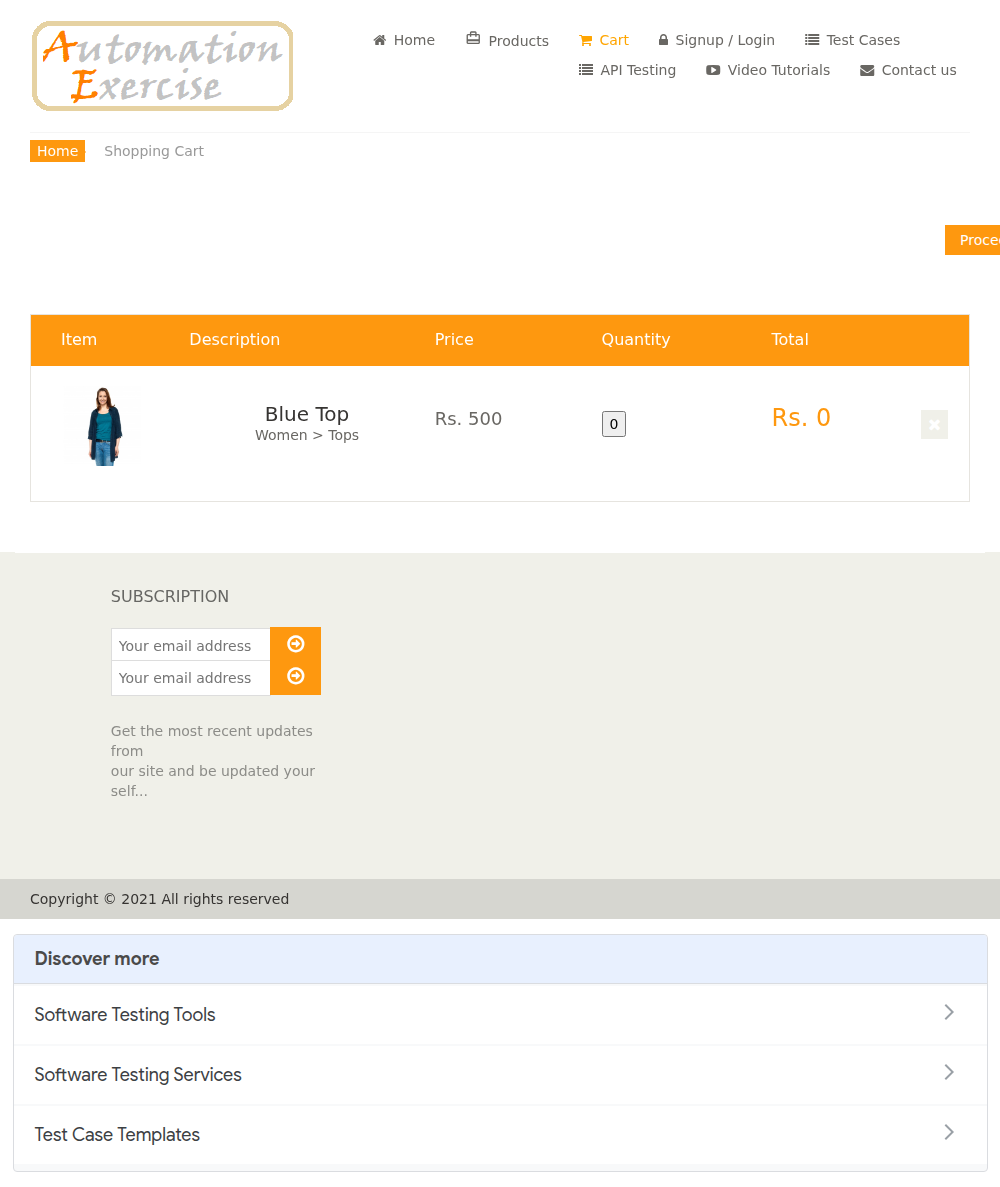
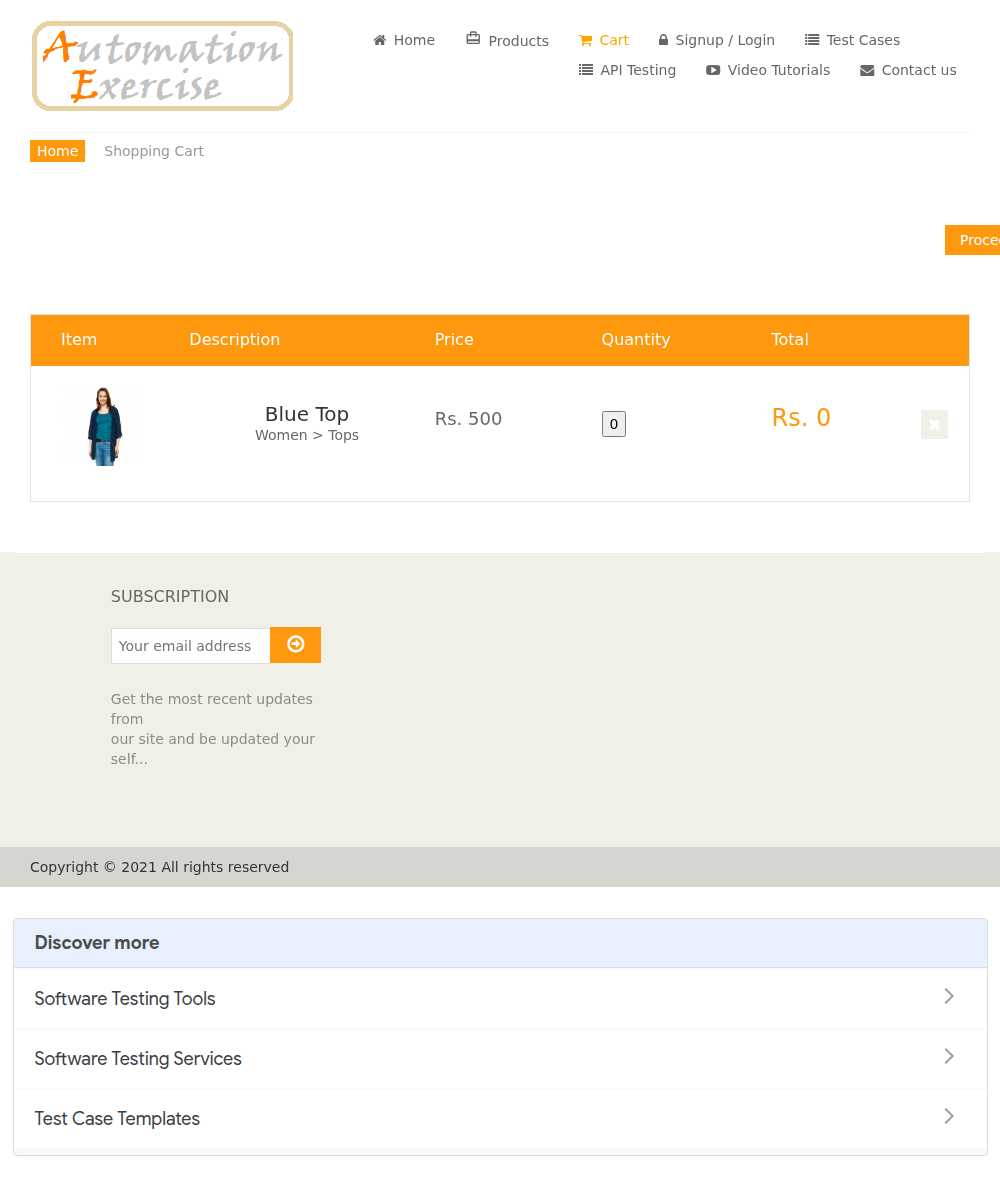
refactor: centraliza conversao monetaria e aprimora expected failure

Changed region(s): [[0.0, 0.6858, 1.0, 0.9663], [0.093, 0.5611, 0.341, 0.6546]]

diff --git a/cypress/e2e/carrinho-known-bugs.cy.js b/cypress/e2e/carrinho-known-bugs.cy.js
@@ -1,69 +1,78 @@
+
 import ProdutosPage from "../pages/ProdutosPage";
 import DetalhesProdutoPage from "../pages/DetalhesProdutoPage";
 import CarrinhoPage from "../pages/CarrinhoPage";
 
 describe("Carrinho - Defeitos conhecidos", () => {
-
   let produto;
 
   beforeEach(() => {
-
     cy.request("GET", "/api/productsList")
       .then((response) => {
+        expect(response.status, "Status HTTP").to.eq(200);
 
         const body = typeof response.body === "string"
           ? JSON.parse(response.body)
           : response.body;
 
-        expect(response.status).to.eq(200);
         expect(body.responseCode).to.eq(200);
         expect(body.products).to.be.an("array").and.not.be.empty;
 
         produto = body.products[0];
-
       });
-
   });
 
-        it("[XFAIL][BUG-001] nao deve permitir produto com quantidade zero no carrinho", () => {
+  it("[XFAIL][BUG-001] nao deve permitir produto com quantidade zero no carrinho", () => {
+    // 1. Acessar produto
+    ProdutosPage.acessar();
+    ProdutosPage.visualizarProduto(produto.id);
 
-        ProdutosPage.acessar();
+    // 2. Informar quantidade invalida
+    DetalhesProdutoPage.alterarQuantidade(0);
+    DetalhesProdutoPage.adicionarAoCarrinho();
+    DetalhesProdutoPage.visualizarCarrinho();
 
-        ProdutosPage.visualizarProduto(produto.id);
+    // 3. Confirmar carregamento do carrinho
+    cy.url().should("include", "/view_cart");
 
-        DetalhesProdutoPage.alterarQuantidade(0);
+    cy.get("#cart_items").should("be.visible");
 
-        DetalhesProdutoPage.adicionarAoCarrinho();
+    // 4. Identificar o comportamento apresentado
+    cy.get("#cart_items").should(($carrinho) => {
+      const produtoNoCarrinho = $carrinho.find(
+        `#product-${produto.id}`
+      );
 
-        DetalhesProdutoPage.visualizarCarrinho();
+      const carrinhoVazio = $carrinho.find(
+        "#empty_cart:visible"
+      );
 
-        cy.url().should("include", "/view_cart");
+      expect(
+        produtoNoCarrinho.length > 0 ||
+        carrinhoVazio.length > 0,
+        "Estado reconhecido do carrinho"
+      ).to.eq(true);
+    }).then(($carrinho) => {
+      const produtoNoCarrinho = $carrinho.find(
+        `#product-${produto.id}`
+      );
 
-        cy.get("body").then(($body) => {
+      if (produtoNoCarrinho.length === 0) {
+        throw new Error(
+          "[XPASS][BUG-001] Defeito possivelmente corrigido. Revisar Expected Failure."
+        );
+      }
 
-            const produtoNoCarrinho = $body.find(
-            `#product-${produto.id}`
-            );
+      // 5. Confirmar exclusivamente o defeito conhecido
+      CarrinhoPage.obterQuantidade(produto.id)
+        .should("have.text", "0");
 
-            if (produtoNoCarrinho.length === 0) {
-            throw new Error(
-                "[XPASS][BUG-001] Defeito possivelmente corrigido. Revisar Expected Failure."
-            );
-            }
+      CarrinhoPage.obterSubtotal(produto.id)
+        .should("have.text", "Rs. 0");
 
-            CarrinhoPage.obterQuantidade(produto.id)
-            .should("have.text", "0");
+      cy.log("[XFAIL][BUG-001] Defeito conhecido reproduzido");
 
-            CarrinhoPage.obterSubtotal(produto.id)
-            .should("have.text", "Rs. 0");
-
-            cy.log("[XFAIL][BUG-001] Defeito conhecido reproduzido");
-
-            cy.screenshot("BUG-001-expected-failure");
-
-        });
-
-        });
-
+      cy.screenshot("BUG-001-expected-failure");
+    });
   });
-
+});

diff --git a/cypress/pages/CheckoutPage.js b/cypress/pages/CheckoutPage.js
@@ -1,3 +1,4 @@
+import { converterPreco } from "../utils/moeda";
 
 class CheckoutPage {
   prosseguirParaCheckout() {
@@ -32,9 +33,7 @@ class CheckoutPage {
   }
 
   validarProduto(produto, quantidade) {
-    const precoUnitario = Number(
-      produto.price.replace("Rs.", "").trim()
-    );
+    const precoUnitario = converterPreco(produto.price);
 
     const subtotalEsperado = precoUnitario * quantidade;
 
@@ -51,9 +50,7 @@ class CheckoutPage {
           .should("contain.text", String(quantidade));
 
         cy.get(".cart_total_price").should(($subtotal) => {
-          const subtotalObtido = Number(
-            $subtotal.text().replace("Rs.", "").trim()
-          );
+          const subtotalObtido = converterPreco($subtotal.text());
 
           expect(subtotalObtido).to.eq(subtotalEsperado);
         });
@@ -65,9 +62,7 @@ class CheckoutPage {
       .parent()
       .find(".cart_total_price")
       .should(($total) => {
-        const totalObtido = Number(
-          $total.text().replace("Rs.", "").trim()
-        );
+        const totalObtido = converterPreco($total.text());
 
         expect(totalObtido, "Total da compra")
           .to.eq(totalEsperado);

diff --git a/cypress/e2e/carrinho.cy.js b/cypress/e2e/carrinho.cy.js
@@ -1,6 +1,7 @@
 import ProdutosPage from "../pages/ProdutosPage";
 import CarrinhoPage from "../pages/CarrinhoPage";
 import DetalhesProdutoPage from "../pages/DetalhesProdutoPage";
+import { converterPreco } from "../utils/moeda";
 
 describe("Carrinho de compras - Visitante", () => {
 
@@ -67,9 +68,7 @@ quantidades.forEach((quantidade) => {
 
   it(`deve validar o subtotal para ${quantidade} unidade(s)`, () => {
 
-    const precoUnitario = Number(
-    produto.price.replace("Rs.", "").trim()
-    );
+    const precoUnitario = converterPreco(produto.price);
 
     const subtotalEsperado = precoUnitario * quantidade;
 
@@ -94,9 +93,7 @@ quantidades.forEach((quantidade) => {
     CarrinhoPage.obterSubtotal(produto.id)
       .should(($subtotal) => {
 
-        const subtotalObtido = Number(
-        $subtotal.text().replace("Rs.", "").trim()
-        );
+        const subtotalObtido = converterPreco($subtotal.text());
 
         expect(subtotalObtido).to.eq(subtotalEsperado);
 

diff --git a/cypress/e2e/compra-e2e.cy.js b/cypress/e2e/compra-e2e.cy.js
@@ -7,6 +7,7 @@ import DetalhesProdutoPage from "../pages/DetalhesProdutoPage";
 import CarrinhoPage from "../pages/CarrinhoPage";
 import CheckoutPage from "../pages/CheckoutPage";
 import PagamentoPage from "../pages/PagamentoPage";
+import { converterPreco } from "../utils/moeda";
 
 describe("Compra completa - E2E", () => {
   let usuario;
@@ -52,13 +53,9 @@ describe("Compra completa - E2E", () => {
 });
 
   it("deve realizar uma compra completa com sucesso", () => {
-    const precoUnitario = Number(
-      produto.price.replace("Rs.", "").trim()
-    );
+    const precoUnitario = converterPreco(produto.price);
 
-    const segundoPrecoUnitario = Number(
-      segundoProduto.price.replace("Rs.", "").trim()
-    );
+    const segundoPrecoUnitario = converterPreco(segundoProduto.price);
 
     const totalEsperado =
       precoUnitario * quantidade +

diff --git a/cypress/utils/moeda.js b/cypress/utils/moeda.js
@@ -1,0 +1,28 @@
+
+export function converterPreco(valor) {
+  if (typeof valor !== "string") {
+    throw new Error(
+      `Formato monetario invalido: ${valor}`
+    );
+  }
+
+  const valorNormalizado = valor
+    .replace("Rs.", "")
+    .trim();
+
+  if (!/^\d+(\.\d+)?$/.test(valorNormalizado)) {
+    throw new Error(
+      `Valor monetario invalido: ${valor}`
+    );
+  }
+
+  const preco = Number(valorNormalizado);
+
+  if (!Number.isFinite(preco)) {
+    throw new Error(
+      `Nao foi possivel converter o preco: ${valor}`
+    );
+  }
+
+  return preco;
+}
